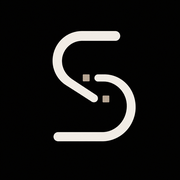
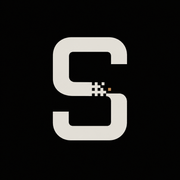
Updates

Changed region(s): [[0.2778, 0.1667, 0.7778, 0.8056]]

diff --git a/index.html b/index.html
@@ -2,8 +2,9 @@
 <html lang="ru">
   <head>
     <meta charset="UTF-8" />
-    <link rel="icon" type="image/svg+xml" href="/favicon.svg" />
-    <link rel="icon" type="image/png" sizes="32x32" href="/sieve-site/favicon.png" />
+    <link rel="icon" type="image/png" sizes="16x16" href="/sieve-site/favicon-16x16.png" />
+    <link rel="icon" type="image/png" sizes="32x32" href="/sieve-site/favicon-32x32.png" />
+    <link rel="icon" type="image/png" sizes="48x48" href="/sieve-site/favicon-48x48.png" />
     <link rel="apple-touch-icon" sizes="180x180" href="/sieve-site/apple-touch-icon.png" />
     <meta name="viewport" content="width=device-width, initial-scale=1.0" />
     <link rel="preconnect" href="https://fonts.googleapis.com">